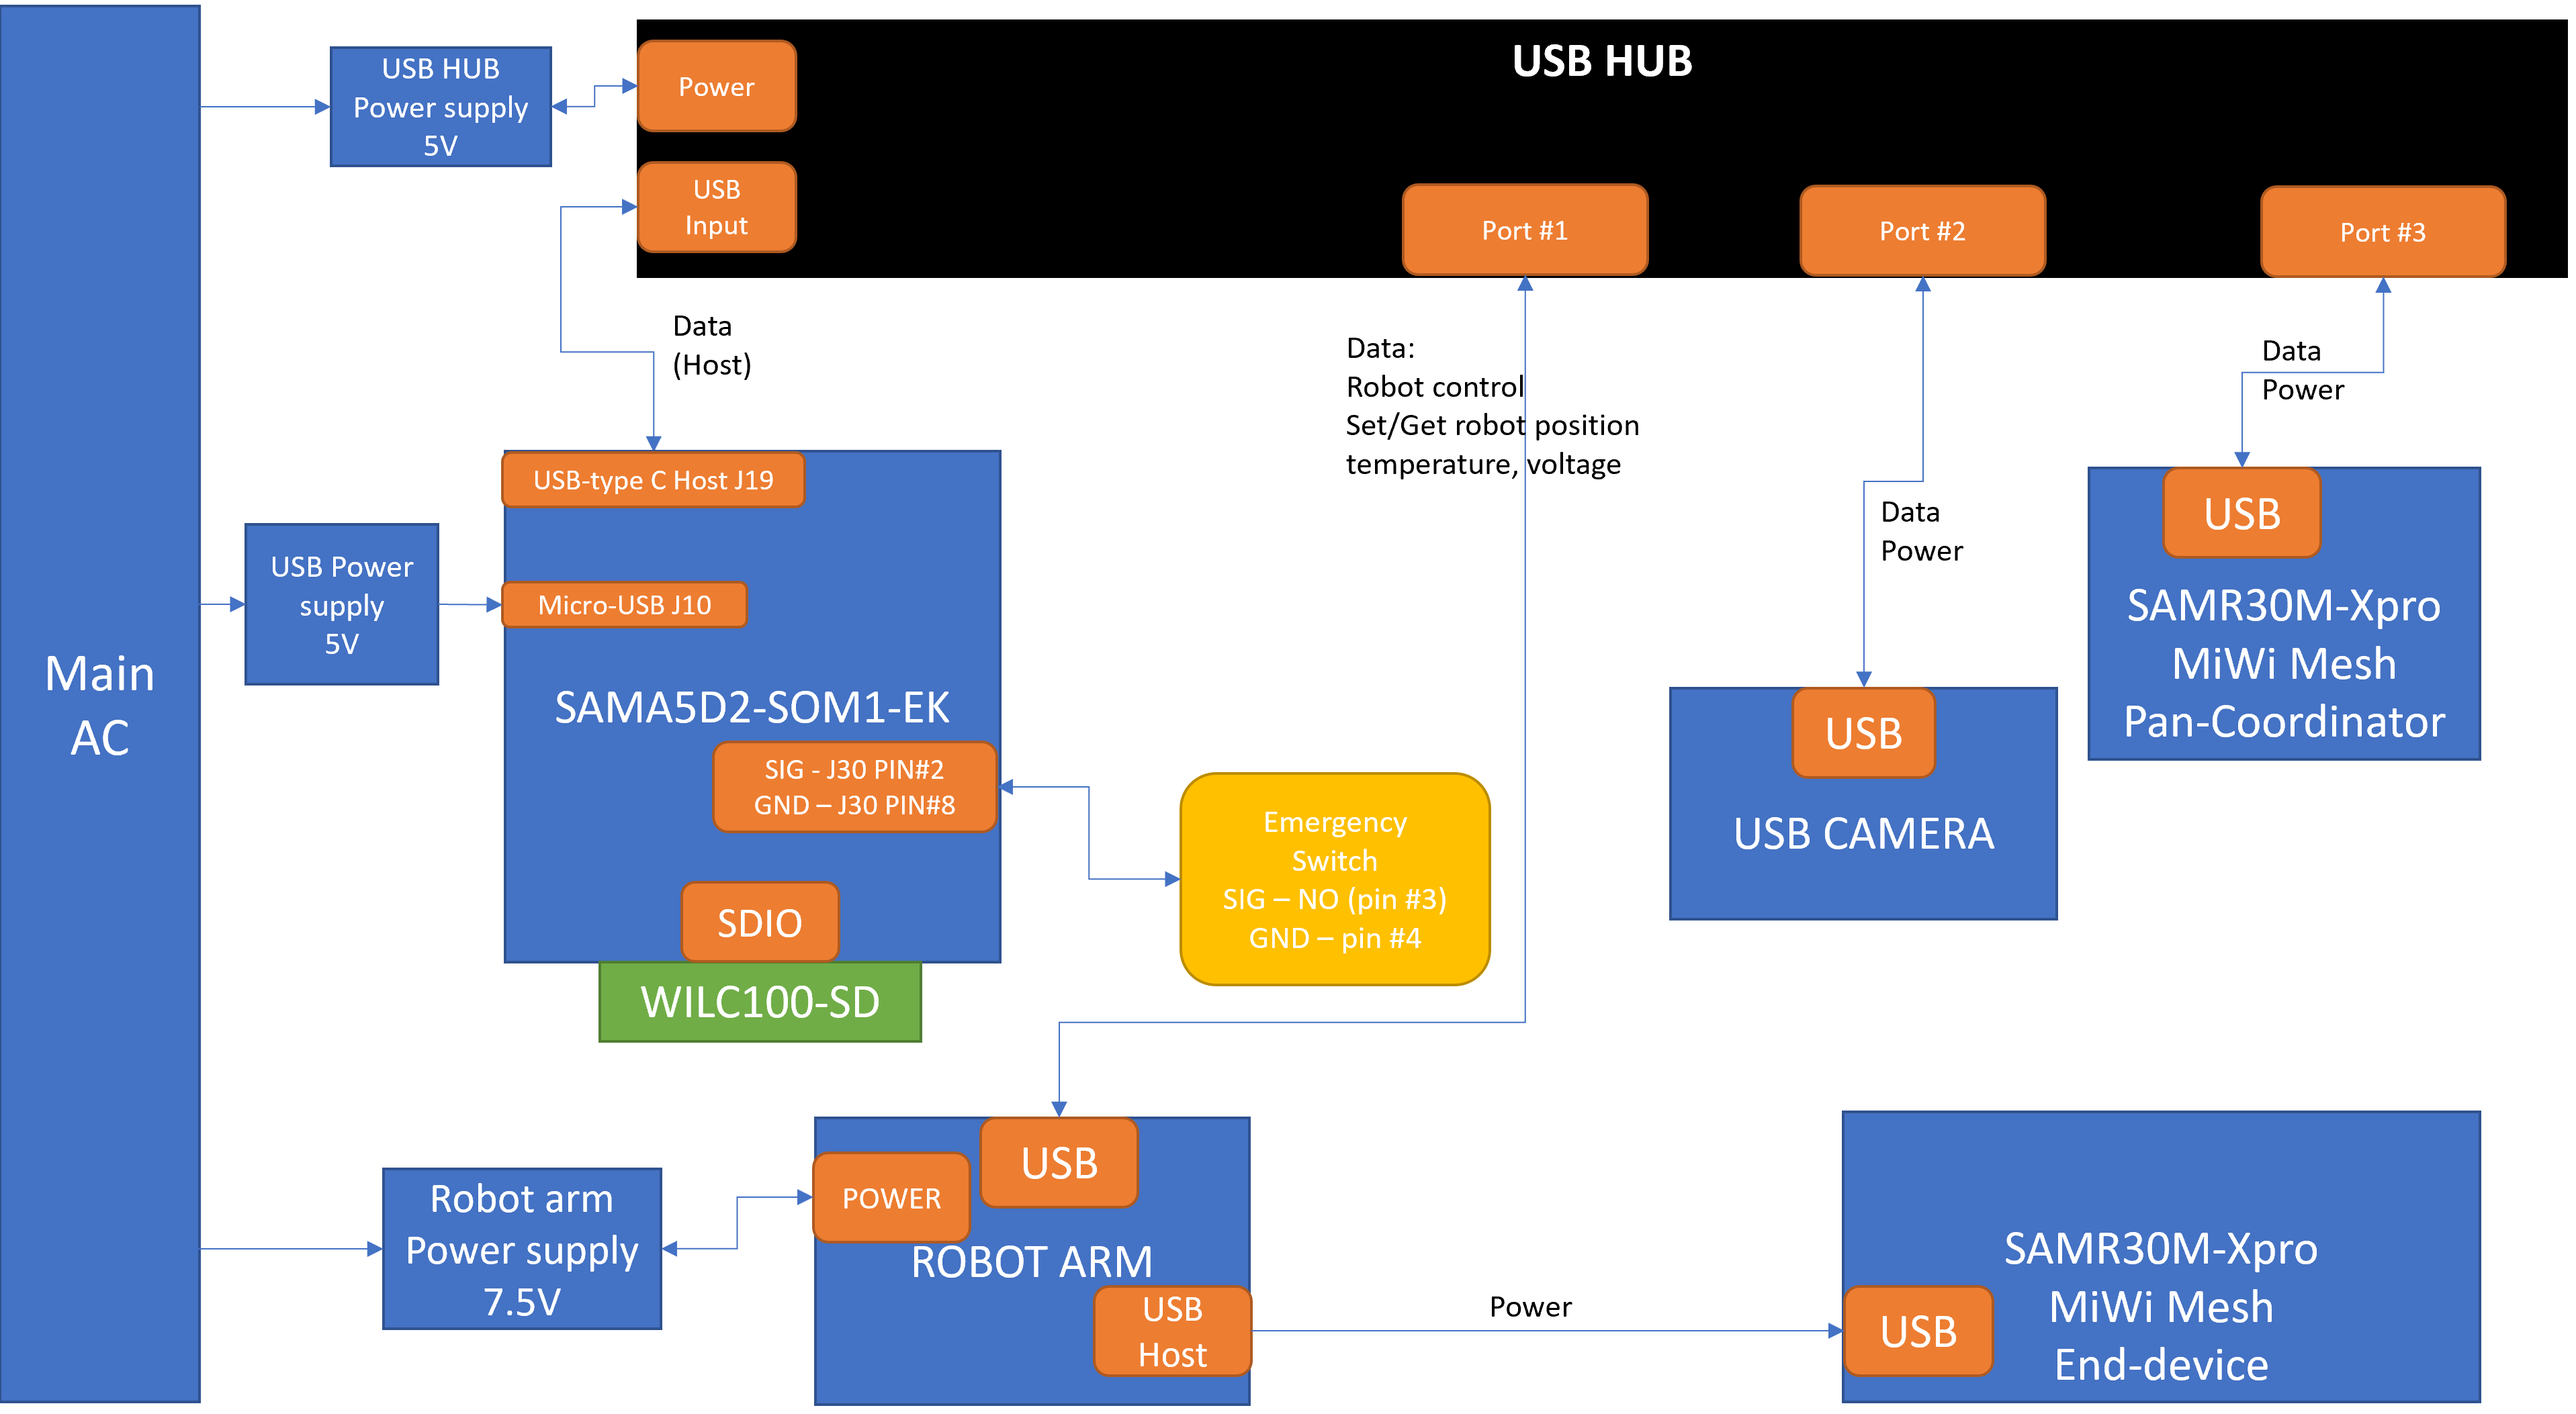
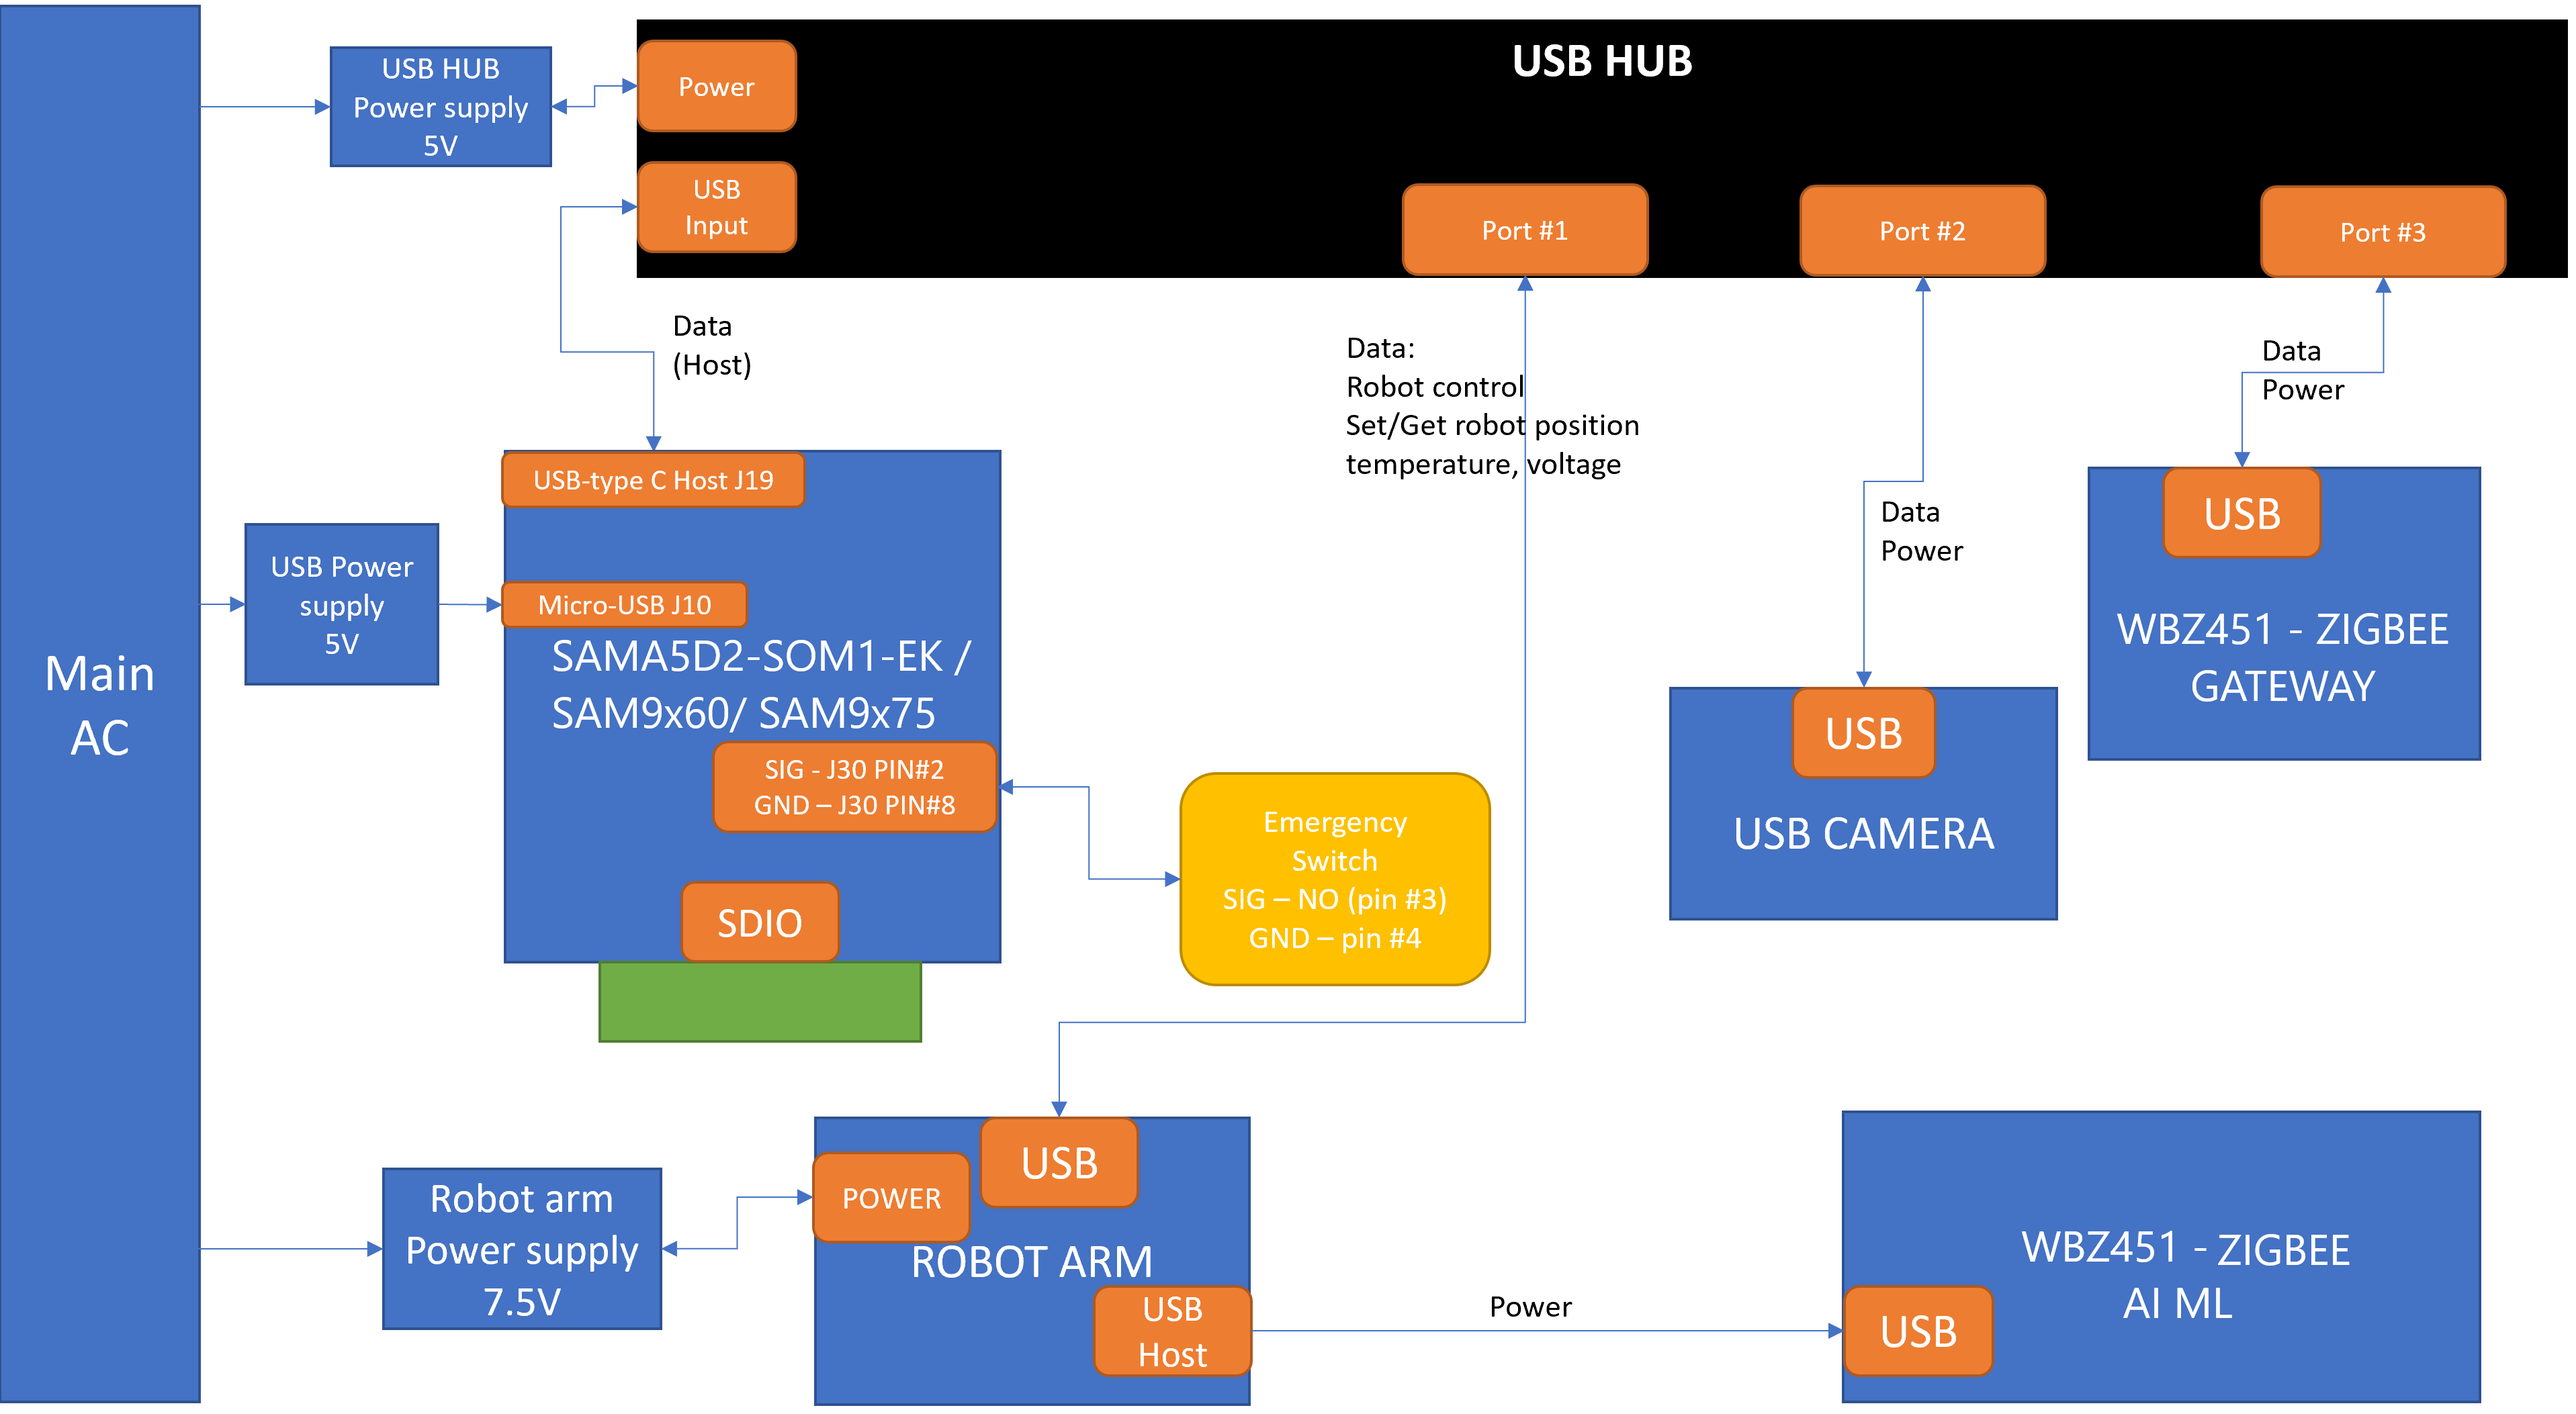
Documentation Update

diff --git a/README.md b/README.md
@@ -47,7 +47,7 @@ And enjoy this Github session
 
 ### System architecture <a name="step2a"></a>
 
-Main unit (see “SAM9X75 Curiosity” Development Kit) has the following functionalities</br>
+Main unit (see “SAM9X75 / SAM9X60 Curiosity” Development Kit) has the following functionalities</br>
 - First and foremost, it drives the robot operations. This will be here your typical factory automation operations: moving, cutting, bending, pressing or connecting pieces altogether</br>
 - Collecting and processing sensors data</br>
 The automation operations described earlier can only be possible if robot is fully aware of its environment. So, the need of collecting data related to the assembly line environment (input), the operation performed (the output or result of a given operation) but also the robot status </br>
@@ -290,7 +290,10 @@ Part of the well-known “Click board” family, Mikroe’s extension boards wit
 The "SECURE 4 CLICK" includes the ATECC608A, a secure CryptoAuthentication™ device from Microchip. </br>It will bring our system security one step further.</br>
 <img src="Doc/secure4click.png" alt="drawing" width="320"/></br>
 
-- <a href="https://www.microchip.com/DevelopmentTools/ProductDetails/PartNO/ATSAMA5D27-SOM1-EK1" target="_blank">1x SAMA5D27-SOM1-EK1</a></br>
+- <a href="https://www.microchip.com/DevelopmentTools/ProductDetails/PartNO/ATSAMA5D27-SOM1-EK1" target="_blank">1x SAMA5D27-SOM1-EK1</a> / <a href="https://www.microchip.com/en-us/development-tool/ev40e67a" target="_blank">SAM9X60</a> / <a href="https://www.microchip.com/en-us/development-tool/ev31h43a" target="_blank">SAM9X75</a></br>
+
+- ## SAMA5D27
+
 The SAMA5D27 SOM1 Kit1 is a fast prototyping and evaluation platform for the high-performance 32-bit Arm® Cortex®-A5 processor-based MPU from Microchip running up to 500 MHz. Namely, the SAMA5D2-based System in Packages (SiPs) and the SAMA5D27 System-On-Module (SAMA5D27-SOM1). </br>
 This kit comprises a baseboard with a soldered SAMA5D27-SOM1 module. </br>
 This development kit will enable one or several of these functions, depending on the considered use cases (see later paragraph)</br>
@@ -300,9 +303,40 @@ This development kit will enable one or several of these functions, depending on
     - Cloud connectivity (see use case 2, 3 & 4)</br>
 <img src="Doc/som1-ek.png" alt="drawing" width="320"/></br>
 
+- ## SAM9x60
+
+The SAM9X60 Curiosity Development Board is based on the SAM9X60D1G SiP high-performance, low-power ARM926EJ-S CPU-based embedded microprocessor (MPU) running at 600MHz. The SAM9X60D1G Curiosity Development Board small form factor PCB including the SAM9X60D1G (SAM9X60 MPU plus 1Gb integrated DDR2), 4Gbit SLC NAND Flash, a KSZ8081 10/100 Ethernet PHY, and MCP16501 Power Management IC optimized for the module.   It is intended for evaluation of all variants of the SAM9X60 MPU, including the System in Package (SIP) variants and the System on Module (SOM).
+
+<img src="Doc/sam9x60.png" alt="drawing" width="320"/></br>
+
+- ## SAM9x75
+
+The SAM9X75 Curiosity Development Board features a SAM9X75D2G MPU and is the evaluation platform for the SAM9X7 Series MPU devices. The SAM9X75D2G is a high-performance, ultra-low power ARM926EJ-S CPU-based embedded microprocessor (MPU) running up to 800 MHz, with an integrated 2 Gbit DDR3L memory. The device integrates powerful peripherals for connectivity and user interface applications, including MIPI DSI®, LVDS, RGB and 2D graphics, MIPI-CSI-2, Gigabit Ethernet with TSN, USB and CAN-FD. Advanced security functions are offered, such as tamper detection, secure boot, secure key storage, TRNG, PUF as well as high-performance crypto accelerators for AES and SHA.
+
+<img src="Doc/sam9x75.png" alt="drawing" width="320"/></br>
+
 - <a href="https://www.microchip.com/en-us/development-tool/ev74a47a" target="_blank">1x WILCS02 </a></br>
 The WILCS02 Wi-Fi Link Controller SD Board makes it easy to connect to the cloud using a host MPU running Linux®. This SD board features the WILCS02PE, an IEEE® 802.11 b/g/n IoT link controller module.</br>
 <img src="Doc/WILCS02-sd.png" alt="drawing" width="320"/></br>
+
+- <a href="https://www.microchip.com/en-us/development-tool/ev96b94a" target="_blank">3x PIC32CX-BZ2 and WBZ451 Curiosity Development Board </a></br>
+
+- The PIC32CX-BZ2 and WBZ451 Curiosity Board:
+	- Offers integrated programming/debugging features using the PICkit™ On-board 4 (PKOB4) debugger interface
+	- Requires only a Micro USB cable to power-up and program the board
+	- Includes a mikroBUS Click™ header, which helps the users to expand the functionalities by connecting to various MIKROE mikroBUS™ Click board™ add-on boards
+	- Performs rapid prototyping utilizing the Bluetooth LE and Zigbee-enabled RF module
+
+- The PIC32CX-BZ2 and WBZ451 Curiosity Board supports a variety of applications:
+	- Wireless lighting
+	- Home automation or Internet of Things (IoT)
+	- Industrial automation
+	- Other Bluetooth LE or Zigbee-related applications.</br>
+<img src="Doc/wbz451.png" alt="drawing" width="320"/></br>
+
+- <a href="https://www.mikroe.com/6dof-imu-2-click" target="_blank">1x 6DOF IMU 2 Click </a></br>
+6DOF IMU 2 Click is a compact add-on board for enhancing hardware prototypes with 6DOF functionality (6 degrees of freedom). This board features the BMI160, a small low-power inertial measurement unit (IMU) from Bosch Sensortec. It combines a state-of-the-art 3-axis low-g accelerometer and a low-power 3-axis gyroscope designed for 6-axis and 9-axis applications (additional magnetometer connection).</br>
+<img src="Doc/imu2.png" alt="drawing" width="320"/></br>
 
 - <a href="https://www.microchip.com/en-us/development-tool/EV96B94A" target="_blank">3x PIC32CX-BZ2 and WBZ451 Curiosity Development Board (AC164159)</a></br>
 The PIC32CX-BZ2 and WBZ451 Curiosity Development Board, based on the WBZ451PE module. It comes preconfigured with an out-of-the-box multi-protocol demo application and features a temperature sensor, a current measurement header, an RGB LED and a MikroElectronika mikroBUSTM socket to attach a plethora of sensors and add-on boards.  Used here for our sensors network, monitoring key variables of our application (presence, temperature, vibration…). </br>
